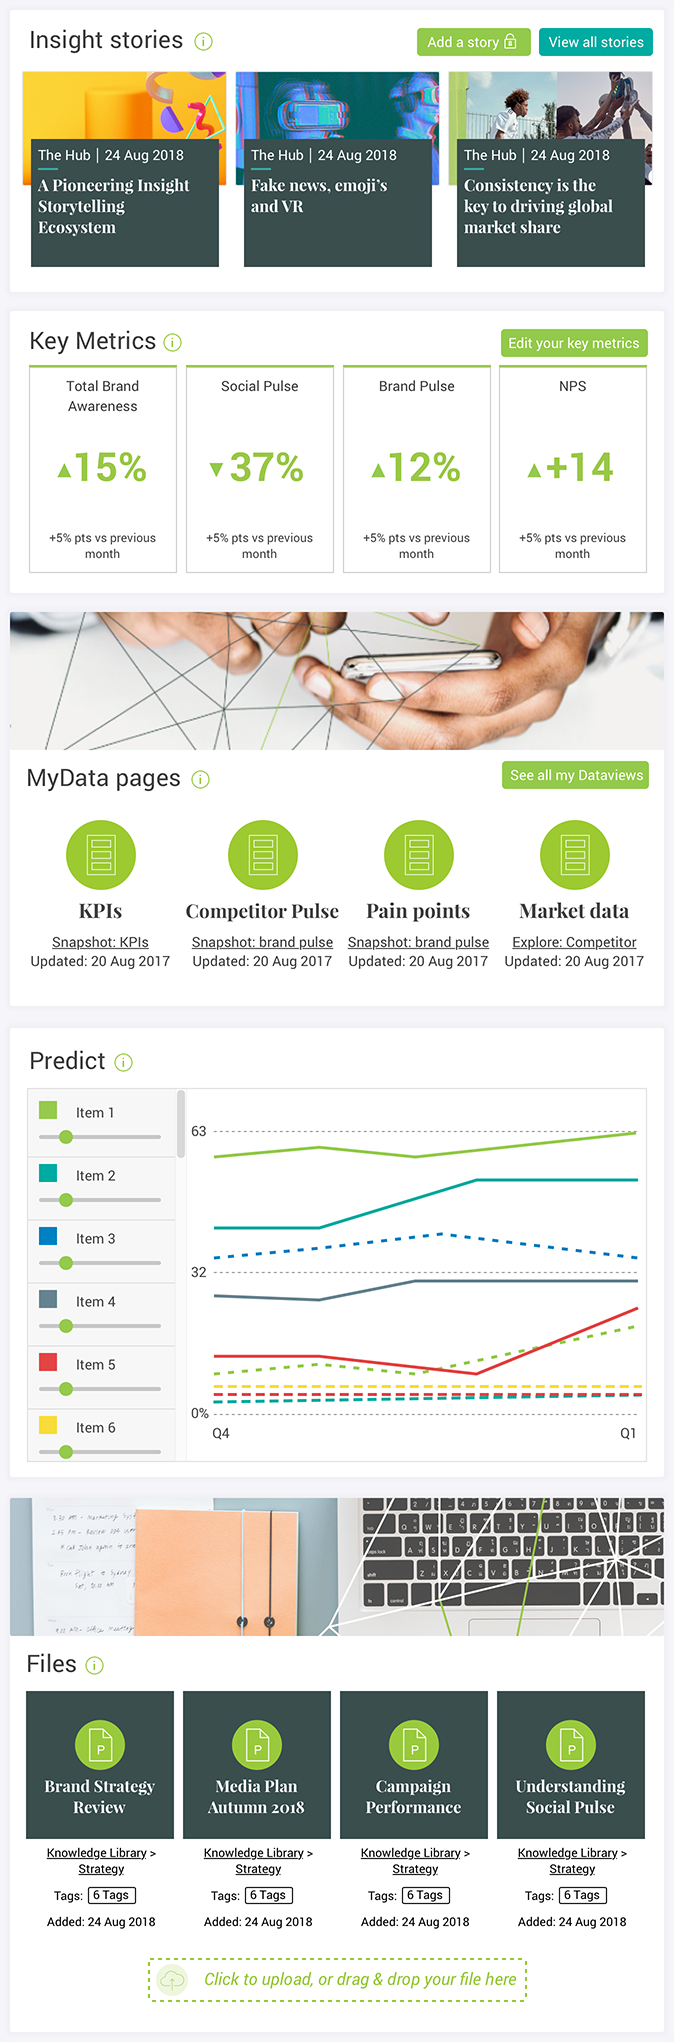
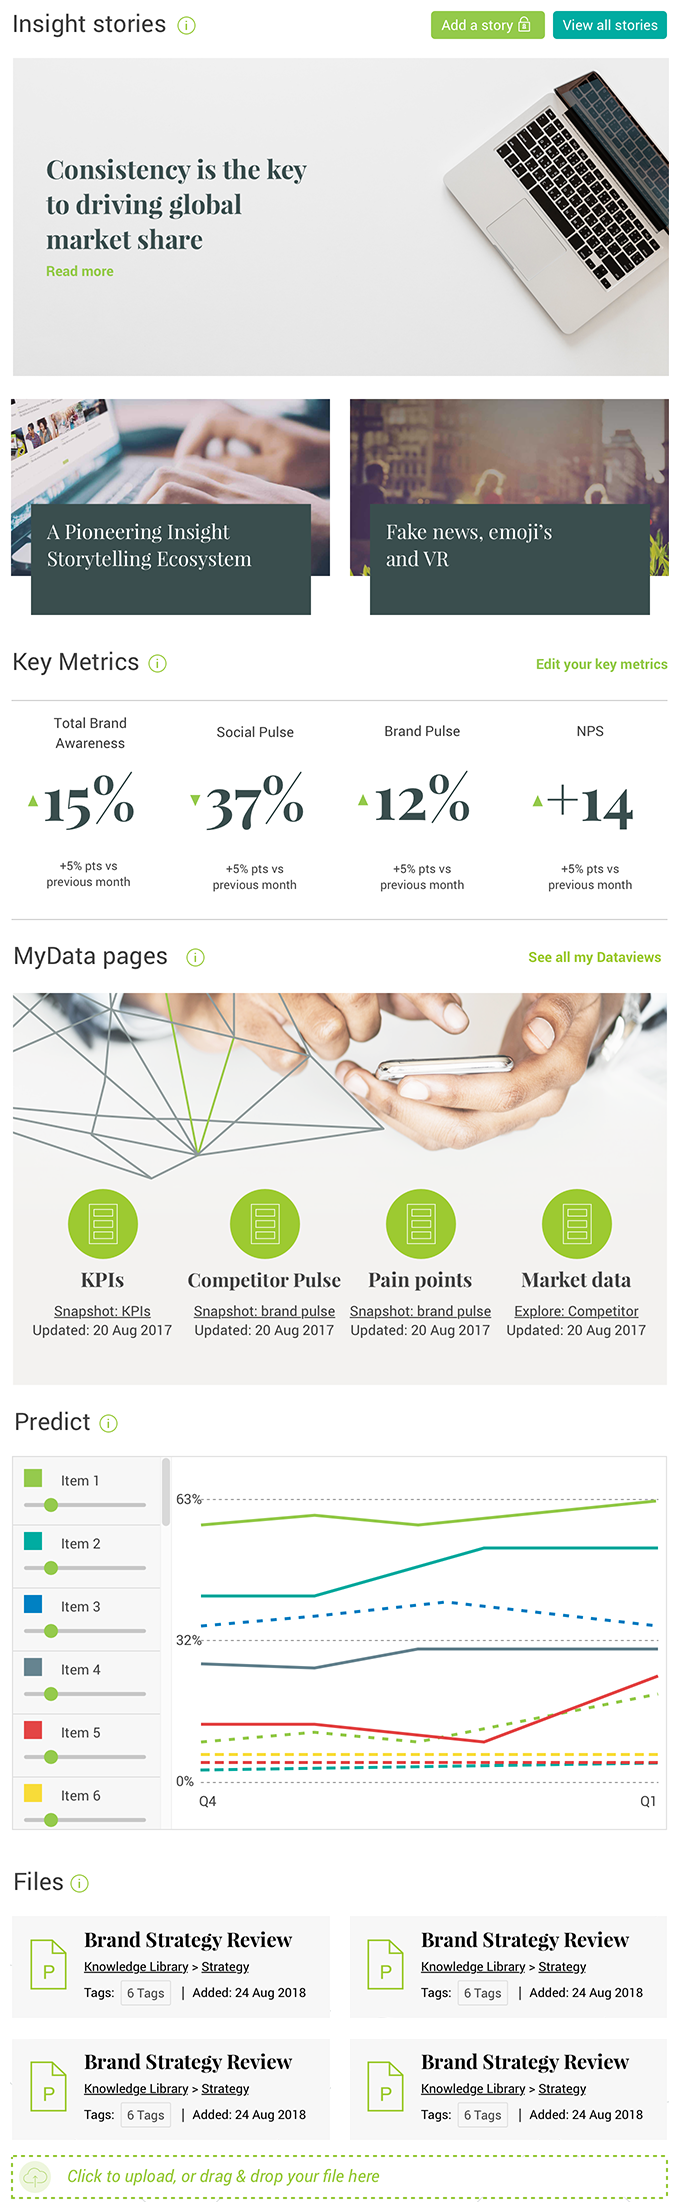
version two

diff --git a/src/css/styles.css b/src/css/styles.css
@@ -339,10 +339,6 @@ html {
   height: 100%;
   font-family: -apple-system, BlinkMacSystemFont, 'Segoe UI', Roboto, Oxygen, Ubuntu, Cantarell, 'Open Sans', 'Helvetica Neue', sans-serif; }
 
-/* line 4, src/sass/styles.scss */
-body {
-  background-color: #f5f5fa; }
-
 /* line 8, src/sass/styles.scss */
 .outer {
   display: flex;
@@ -362,13 +358,13 @@ body {
 /* line 24, src/sass/styles.scss */
 .footer {
   width: 100%;
-  height: 145px;
+  height: 109px;
   background-image: url("../footer.png"); }
 
 /* line 30, src/sass/styles.scss */
 .main {
   position: relative;
-  width: 1348px;
+  width: 1356px;
   margin-top: 132px;
   margin-bottom: 60px; }
 
@@ -377,21 +373,23 @@ body {
   position: absolute;
   left: 0;
   width: 337px;
-  height: 1345px;
+  height: 1251px;
   background-image: url("../left.png"); }
 
 /* line 45, src/sass/styles.scss */
 .center {
   margin-left: 337px;
-  width: 674px;
-  height: 2042px;
-  background-image: url("../center.png"); }
+  width: 679px;
+  height: 2212px;
+  background-image: url("../center.png");
+  background-repeat: no-repeat;
+  background-position-y: -4px; }
 
-/* line 52, src/sass/styles.scss */
+/* line 54, src/sass/styles.scss */
 .right {
   position: absolute;
   right: 0;
   top: 0;
-  width: 337px;
-  height: 1187px;
+  width: 338px;
+  height: 1399px;
   background-image: url("../right.png"); }

diff --git a/src/sass/styles.scss b/src/sass/styles.scss
@@ -2,7 +2,7 @@
 @import 'base';
 
 body {
-  background-color: #f5f5fa;
+  // background-color: #f5f5fa;
 }
 
 .outer {
@@ -23,13 +23,13 @@ body {
 
 .footer {
   width: 100%;
-  height: 145px;
+  height: 109px;
   background-image: url('../footer.png');
 }
 
 .main {
   position: relative;
-  width: 337px * 2 + 674px;
+  width: 337px * 2 + 674px + 8px;
   margin-top: 60px + 72px;
   margin-bottom: 60px;
 }
@@ -38,22 +38,24 @@ body {
   position: absolute;
   left: 0;
   width: 337px;
-  height: 1345px;
+  height: 1251px;
   background-image: url('../left.png');
 }
 
 .center {
   margin-left: 337px;
-  width: 674px;
-  height: 2042px;
+  width: 679px;
+  height: 2212px;
   background-image: url('../center.png');
+  background-repeat: no-repeat;
+  background-position-y: -4px;
 }
 
 .right {
   position: absolute;
   right: 0;
   top: 0;
-  width: 337px;
-  height: 1187px;
+  width: 338px;
+  height: 1399px;
   background-image: url('../right.png');
 }
